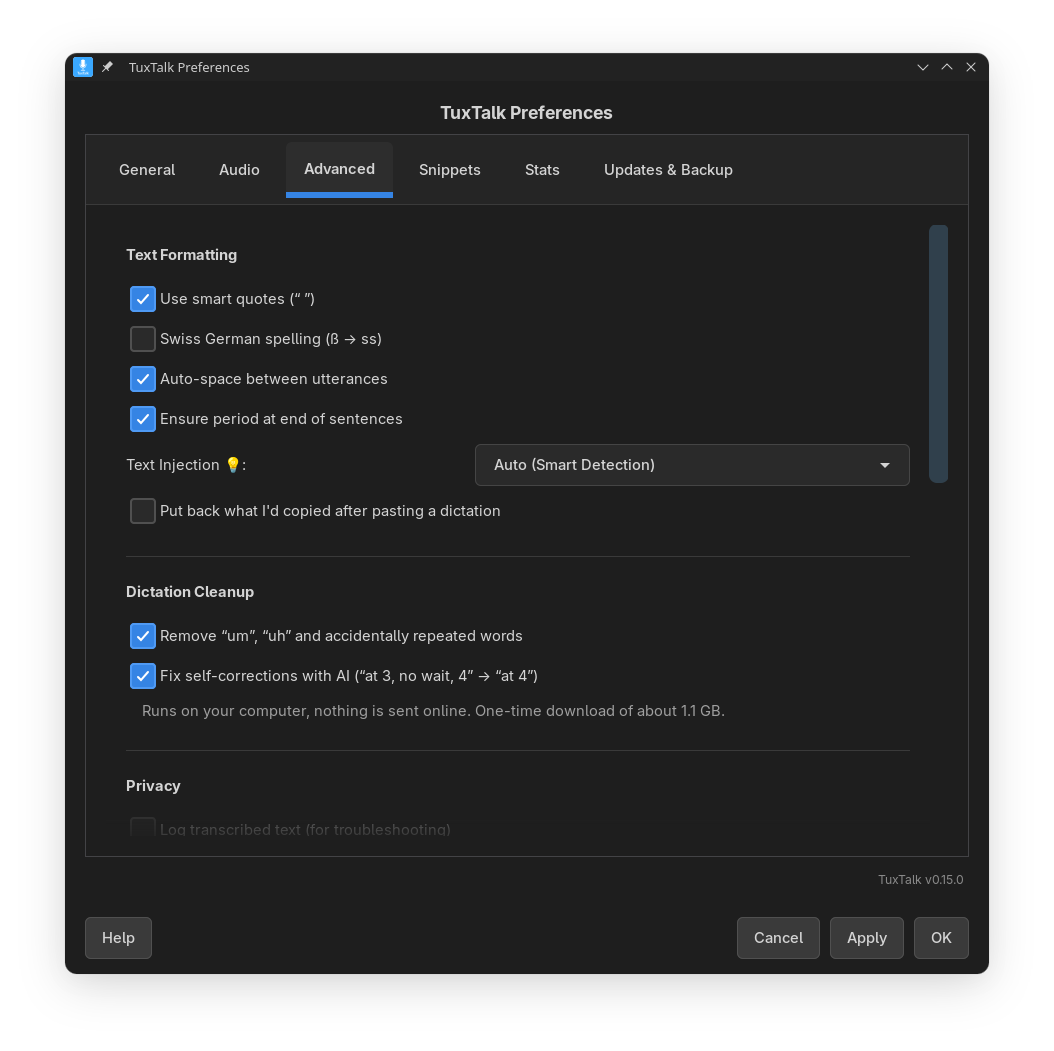
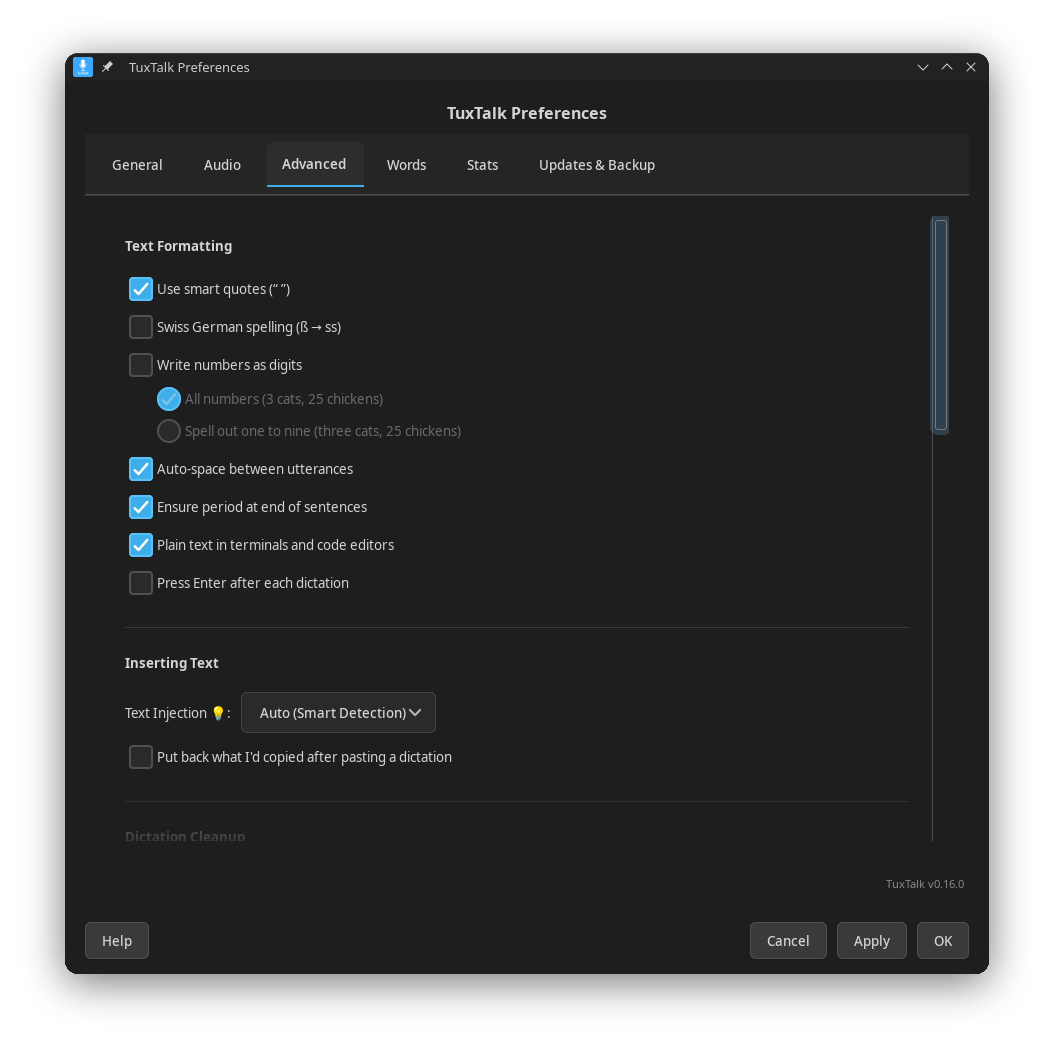
README and screenshots for 0.16
"New in 0.16" replaces "New in 0.15.1" (the approved drafts plus press
enter, Type at pause and Your Words for Parakeet). The intro and the
permissions row say the hotkey helper reads the keyboard and no restart is
needed. Your Words shows the word window and the Words tab; Labs mentions
Type at pause and "edit that". Six Preferences screenshots retaken on a
hidden display (Words tab, v0.16.0, Power Saving, turn other sounds down,
press Enter, the new Labs section), README and website alike.

diff --git a/README.md b/README.md
@@ -21,7 +21,7 @@
 <p align="center">
   <a href="https://tuxtalk.app/"><b>Website</b></a> &nbsp;&bull;&nbsp;
   <a href="#installation">Install</a> &nbsp;&bull;&nbsp;
-  <a href="#new-in-0151">New in 0.15.1</a> &nbsp;&bull;&nbsp;
+  <a href="#new-in-016">New in 0.16</a> &nbsp;&bull;&nbsp;
   <a href="#what-it-does">What it does</a> &nbsp;&bull;&nbsp;
   <a href="#all-the-features">All the features</a> &nbsp;&bull;&nbsp;
   <a href="CHANGELOG.md">What's new</a>
@@ -35,27 +35,21 @@
 
 https://github.com/user-attachments/assets/ddedf92d-bbd2-4fc2-94e1-05461e633784
 
-That works on GNOME, KDE, Sway, Hyprland and X11 with no setup, because TuxTalk reads the key straight from the keyboard instead of asking the desktop for it. Most Linux dictation tools can't do hold-to-talk on Wayland at all.
+That works on GNOME, KDE, Sway, Hyprland and X11 with no setup, because TuxTalk's little hotkey helper reads the key straight from the keyboard instead of asking the desktop for it. It's the only part that reads the keyboard, so other programs you run can't read your typing. Most Linux dictation tools can't do hold-to-talk on Wayland at all.
 
 It's free, it runs completely offline, and nothing you say ever leaves your computer.
 
 ---
 
-## New in 0.15.1
+## New in 0.16
 
-<p align="center">
-  <img src="screenshots/transcribe-file.png" alt="Transcribe a File: a one-minute recording called shop-meeting.mp3 turned into three paragraphs of text, each starting with its time, with buttons to copy it or save it as text or as subtitles" width="600">
-</p>
+**No more `input` group.** TuxTalk used to put you in the input group so it could hear F8, and that group lets any program you run read every key you press. Now a small helper service is the only thing that reads the keyboard, and it only passes on TuxTalk's own hotkeys. Setup is one password and no restart. Already using TuxTalk? Preferences, Advanced, Typing Setup, Switch to Hotkey Helper.
 
-**Transcribe a File.** Give it a recording or a video and you get the text back, or subtitles for the video. It's in the tray menu right under Fix a Word. It uses the same model you dictate with, so there's nothing new to download, and dictation keeps working while it runs. On my NVIDIA card with Parakeet, three and a half minutes of talking took about nine seconds.
+**Talk, look it over, send it.** Say "press enter" at the end and your message goes. Turn on Type at pause in Labs and each phrase shows up when you pause, and with hands-free on F9 you can say "edit that, make it more formal" before you send it. No keyboard at all.
 
-**Say "fix that word"** right after a dictation and Fix a Word opens on what you just said. Click the word it got wrong, type it the right way, and it's fixed in your text and in every dictation after.
+**Your Words for Parakeet.** Names you add in the new Words tab now steer Parakeet too, and the words TuxTalk mishears sit right under the name they belong to.
 
-**Numbers as digits**, if you want them. Parakeet likes to write "twenty-five" out in words. Tick Write numbers as digits in Preferences, Advanced and you get 25.
-
-**Terminals get plain text.** Say "git status" into a terminal and you get git status, with no capital and no period.
-
-And there's `tuxtalk --toggle` for your own shortcut, a way to keep auto-detect to the languages you actually speak, and select and move by voice in TuxTalk Labs. The [changelog](CHANGELOG.md) has the rest.
+There's also a setting to turn other sounds down while you talk, a warning when your mic sends only silence, and power saving that's on for laptops and off for desktops. The [changelog](CHANGELOG.md) has the rest.
 
 ---
 
@@ -87,12 +81,12 @@ Want something else? One button shows every choice, with what it costs you in do
 
 ### Teach it your words
 
-Names, brands, the part numbers you use every day. Put them in **Your Words** and they come out spelled your way, even when the model hears them split up, like "tux talk". If one still comes out wrong, pick it out of a recent dictation with **Fix a Word**, type it the right way, and it's fixed from then on.
+Names, brands, the part numbers you use every day. Put them in **Your Words**, in the Words tab, and they come out spelled your way, with Parakeet or Whisper, even when the model hears them split up, like "tux talk". If one still comes out wrong, say "fix that word" or pick it out of a recent dictation with **Fix a Word**, type it the right way, and it's fixed from then on. Each fix is kept under its word.
 
 Snippets are your own shortcuts, like "my email" for your address.
 
 </td>
-<td width="50%"><img src="screenshots/your-words.png" alt="Your Words: names and terms TuxTalk should spell your way, one per line"></td>
+<td width="50%"><img src="screenshots/word-dialog.png" alt="One of Your Words: the right spelling, BambuStudio, and the ways TuxTalk tends to hear it, like bamboo studio"></td>
 </tr>
 <tr>
 <td width="50%"><img src="screenshots/tray-performance.png" alt="Tray menu with the Performance presets"></td>
@@ -129,10 +123,10 @@ Save your settings, voice commands, Fix a Word words and stats to one file, and 
 
 ### Try what's coming next
 
-TuxTalk Labs is at the bottom of Preferences, Advanced. It's for features that work but aren't finished, like voice editing and an indicator that follows the window you're dictating into. They're off until you turn them on, and there's a link right there to tell me how they're working for you.
+TuxTalk Labs is at the bottom of Preferences, Advanced. It's for features that work but aren't finished, like Type at pause, voice editing ("edit that, make it shorter") and an indicator that follows the window you're dictating into. They're off until you turn them on, and there's a link right there to tell me how they're working for you.
 
 </td>
-<td width="50%"><img src="screenshots/prefs-labs.png" alt="Preferences, Advanced: the TuxTalk Labs section with voice editing and the indicator that follows your window"></td>
+<td width="50%"><img src="screenshots/prefs-labs.png" alt="Preferences, Advanced: the TuxTalk Labs section with voice editing, Type at pause and the indicator that follows your window"></td>
 </tr>
 </table>
 
@@ -203,7 +197,7 @@ enough interest and I'll make it happen.
 |------------|---------|
 | **OS** | Linux, on Wayland or X11 (GNOME, KDE, Sway, Hyprland and more) |
 | **Dependencies** | None to install by hand — ydotool, ydotoold and wl-clipboard ship inside TuxTalk, and the ydotoold daemon starts automatically on first run |
-| **Permissions** | First run asks for your admin password once, to let TuxTalk read your keyboard and type into other apps. **Restart afterwards** for it to take effect |
+| **Permissions** | First run asks for your admin password once, to set up the hotkey helper and let TuxTalk type into other apps. No restart needed (without systemd it uses the `input` group, and then it does) |
 | **Audio** | Working microphone |
 | **GPU (optional)** | Any NVIDIA, AMD or Intel graphics chip (Vulkan), or CUDA on NVIDIA |
 
@@ -291,10 +285,10 @@ Want your own shortcut, or a script? Run `tuxtalk --toggle` (or `--start`, `--st
 <p align="center"><em>Microphone test and recording indicator &bull; The Voice Commands quick reference</em></p>
 
 <p align="center">
-  <img src="screenshots/prefs-snippets.png" alt="Preferences, Snippets: your own phrases, Fix a Word and Your Words" width="45%">
+  <img src="screenshots/prefs-words.png" alt="Preferences, Words: Your Words with the ways each one gets misheard, and Snippets below" width="45%">
   <img src="screenshots/prefs-stats.png" alt="Preferences, Stats" width="45%">
 </p>
-<p align="center"><em>Snippets, Fix a Word and Your Words &bull; Your Stats</em></p>
+<p align="center"><em>The Words tab: Your Words and Snippets &bull; Your Stats</em></p>
 
 <p align="center">
   <img src="screenshots/help-getting-started.png" alt="Help, Getting Started" width="70%">
